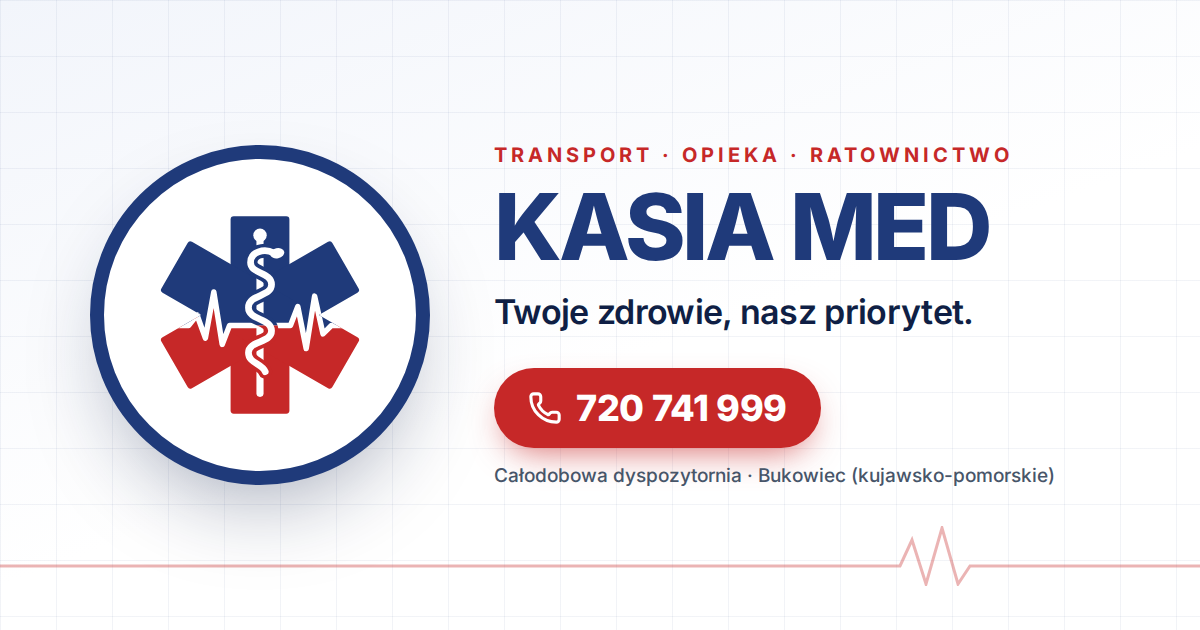
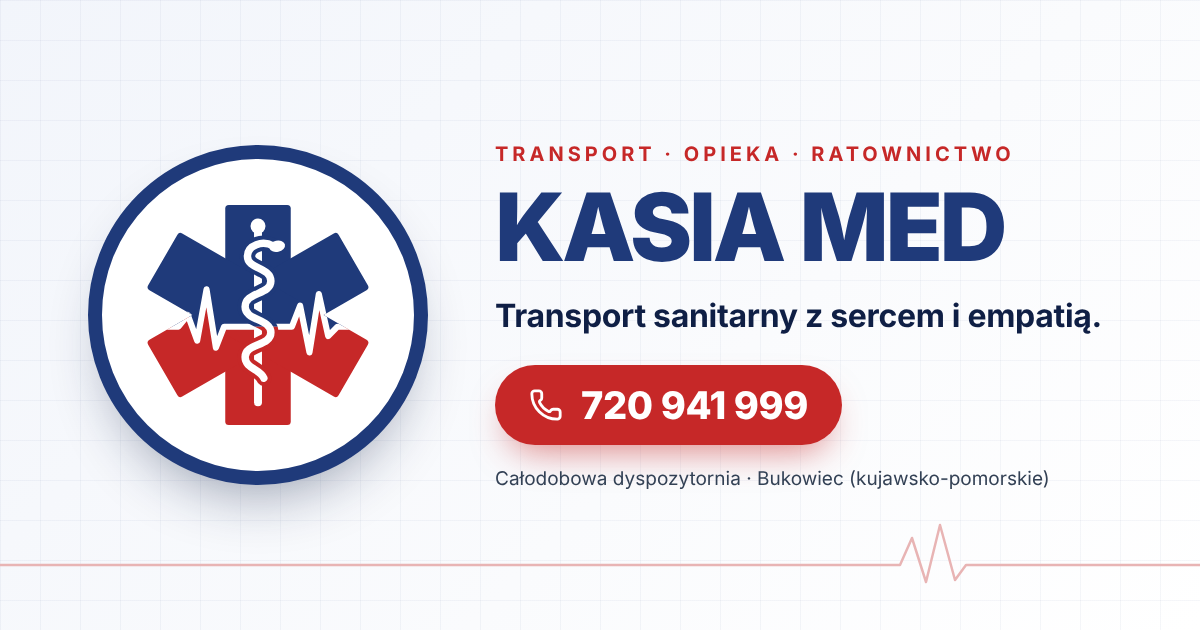
Fix phone number on link preview image, shorten About copy
- og-image.png still showed the old number 720 741 999 and the old tagline;
  re-rendered with 720 941 999 and the new tagline
- About: story cut to two sentences, highlight cards to one line each,
  and cards stack the icon above the text on phones

Claude-Session: https://claude.ai/code/session_018xKXQJBDGYhMj7yZLaRaNT

diff --git a/src/data/company.ts b/src/data/company.ts
@@ -99,22 +99,22 @@ export const highlights: Highlight[] = [
   {
     icon: 'calm',
     title: 'Bez pośpiechu',
-    text: 'U nas nikt się nie spieszy. Czas w drodze jest w całości dla pacjenta, bez zbędnego stresu.',
+    text: 'Czas w drodze jest tylko dla pacjenta.',
   },
   {
     icon: 'family',
     title: 'Bliscy mogą jechać z nami',
-    text: 'Osoba z rodziny lub opiekun jest zawsze mile widziany na pokładzie.',
+    text: 'Osoba z rodziny lub opiekun jest zawsze mile widziany.',
   },
   {
     icon: 'team',
     title: 'Doświadczony zespół',
-    text: '4 ratowników i 2 ratowniczki. Przeszkoleni, wyrozumiali i gotowi pomóc w każdej sytuacji.',
+    text: '4 ratowników i 2 ratowniczki.',
   },
   {
     icon: 'fleet',
     title: 'Dwa ambulanse typu B',
-    text: 'W pełni przystosowane do przewozu pacjentów. Na pokładzie defibrylator AED i torby ratownicze R1.',
+    text: 'Na pokładzie defibrylator AED i torby ratownicze R1.',
   },
 ];
 
